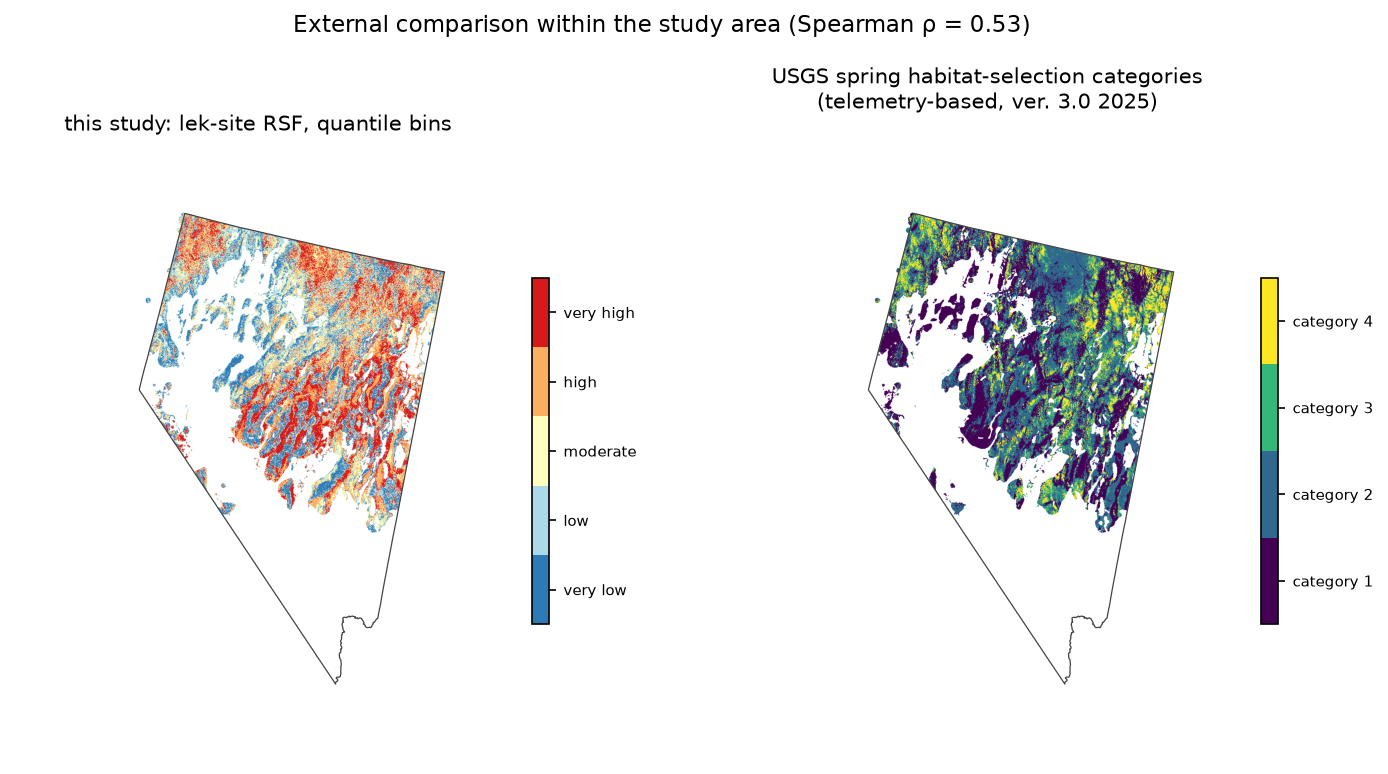
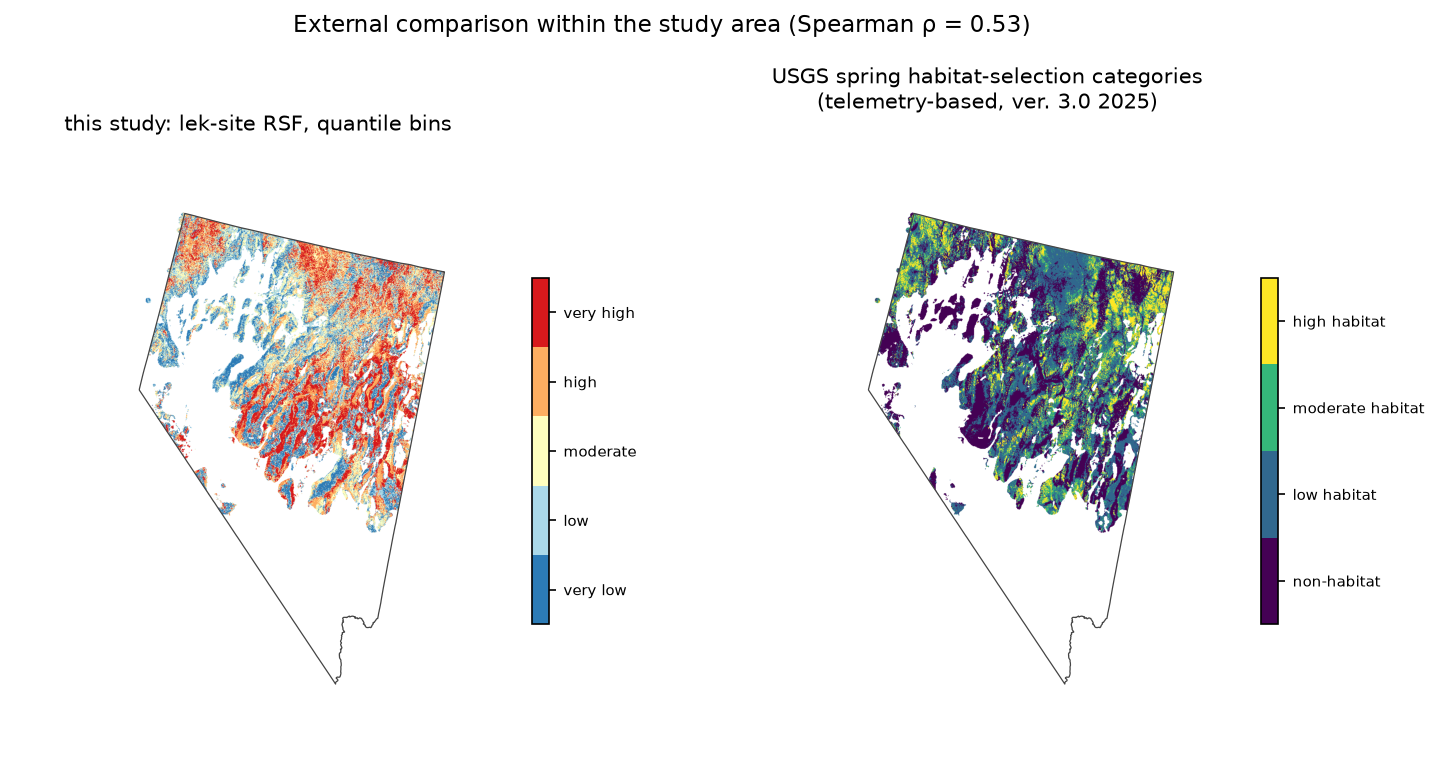
USGS categories: official FGDC class names (non-habitat/low/moderate/high HSI percentile classes) in contingency table, figure legend, and prose; 4-vs-5-class design difference explained in Methods and table footnote

diff --git a/pipeline/validate_usgs.py b/pipeline/validate_usgs.py
@@ -82,7 +82,11 @@ for i, c in enumerate(cats):
     for j in range(5):
         tab[i, j] = np.sum((theirs == c) & (our_bin == j))
 tab = tab / tab.sum(axis=1, keepdims=True)
-cdf = pd.DataFrame(tab, index=[f"USGS cat {c}" for c in cats],
+# official class names from the release's FGDC metadata (percentile classes
+# of the HSI: <5th, 5th-25th, 25th-50th, >50th)
+USGS_NAMES = {1: "non-habitat", 2: "low habitat", 3: "moderate habitat",
+              4: "high habitat"}
+cdf = pd.DataFrame(tab, index=[f"USGS {USGS_NAMES.get(c, f'cat {c}')}" for c in cats],
                    columns=[f"ours {l}" for l in labels5])
 (ROOT / "reports/v4/tables").mkdir(parents=True, exist_ok=True)
 
@@ -102,7 +106,12 @@ body = "".join(
 with open(ROOT / "reports/v4/tables/usgs_contingency.md", "w") as f:
     f.write('<table style="border-collapse:collapse;margin:0.5em 0">'
             f'<thead><tr><th></th>{head}</tr></thead>'
-            f'<tbody>{body}</tbody></table>\n')
+            f'<tbody>{body}</tbody></table>\n\n'
+            "USGS classes are percentile thresholds of their habitat-selection "
+            "index (non-habitat < 5th percentile; low 5th–25th; moderate "
+            "25th–50th; high > 50th) — four classes of deliberately unequal "
+            "area, unlike our five equal-area quantile bins, so the comparison "
+            "is ordinal rather than class-for-class.\n")
 msg = (f"USGS raster: {target['name']}\n"
        f"common valid points: {len(ours):,} of 150,000\n"
        f"Spearman(ours, USGS): {rho:.3f}\n")

diff --git a/pipeline/map_panels.py b/pipeline/map_panels.py
@@ -89,7 +89,10 @@ im1 = axes[1].imshow(theirs_idx, cmap=cat_cmap, vmin=-0.5, vmax=len(cats) - 0.5,
                      extent=(bnd.left, bnd.right, bnd.bottom, bnd.top))
 axes[1].set_title("USGS spring habitat-selection categories\n(telemetry-based, ver. 3.0 2025)", fontsize=10)
 cb1 = fig.colorbar(im1, ax=axes[1], shrink=0.5, ticks=range(len(cats)))
-cb1.ax.set_yticklabels([f"category {c}" for c in cats], fontsize=7)
+# official class names (FGDC metadata): percentile thresholds of the HSI
+USGS_NAMES = {1: "non-habitat", 2: "low habitat", 3: "moderate habitat",
+              4: "high habitat"}
+cb1.ax.set_yticklabels([USGS_NAMES.get(c, f"category {c}") for c in cats], fontsize=7)
 for ax in axes:
     nv.boundary.plot(ax=ax, color="#444", linewidth=0.6)
     ax.set_axis_off()

diff --git a/reports/v4/tables/usgs_contingency.md b/reports/v4/tables/usgs_contingency.md
@@ -1,1 +1,3 @@
-<table style="border-collapse:collapse;margin:0.5em 0"><thead><tr><th></th><th style="text-align:right;padding:4px 12px">ours very low</th><th style="text-align:right;padding:4px 12px">ours low</th><th style="text-align:right;padding:4px 12px">ours moderate</th><th style="text-align:right;padding:4px 12px">ours high</th><th style="text-align:right;padding:4px 12px">ours very high</th></tr></thead><tbody><tr><th style="text-align:left;padding:4px 12px;font-weight:normal">USGS cat 1</th><td style="text-align:right;padding:4px 12px;background-color:rgba(46,109,164,0.65)">46%</td><td style="text-align:right;padding:4px 12px;background-color:rgba(46,109,164,0.40)">29%</td><td style="text-align:right;padding:4px 12px;background-color:rgba(46,109,164,0.19)">14%</td><td style="text-align:right;padding:4px 12px;background-color:rgba(46,109,164,0.10)">7%</td><td style="text-align:right;padding:4px 12px;background-color:rgba(46,109,164,0.06)">4%</td></tr><tr><th style="text-align:left;padding:4px 12px;font-weight:normal">USGS cat 2</th><td style="text-align:right;padding:4px 12px;background-color:rgba(46,109,164,0.13)">9%</td><td style="text-align:right;padding:4px 12px;background-color:rgba(46,109,164,0.26)">18%</td><td style="text-align:right;padding:4px 12px;background-color:rgba(46,109,164,0.35)">25%</td><td style="text-align:right;padding:4px 12px;background-color:rgba(46,109,164,0.36)">26%</td><td style="text-align:right;padding:4px 12px;background-color:rgba(46,109,164,0.30)">22%</td></tr><tr><th style="text-align:left;padding:4px 12px;font-weight:normal">USGS cat 3</th><td style="text-align:right;padding:4px 12px;background-color:rgba(46,109,164,0.06)">4%</td><td style="text-align:right;padding:4px 12px;background-color:rgba(46,109,164,0.18)">13%</td><td style="text-align:right;padding:4px 12px;background-color:rgba(46,109,164,0.31)">22%</td><td style="text-align:right;padding:4px 12px;background-color:rgba(46,109,164,0.38)">27%</td><td style="text-align:right;padding:4px 12px;background-color:rgba(46,109,164,0.47)">33%</td></tr><tr><th style="text-align:left;padding:4px 12px;font-weight:normal">USGS cat 4</th><td style="text-align:right;padding:4px 12px;background-color:rgba(46,109,164,0.06)">5%</td><td style="text-align:right;padding:4px 12px;background-color:rgba(46,109,164,0.16)">11%</td><td style="text-align:right;padding:4px 12px;background-color:rgba(46,109,164,0.26)">18%</td><td style="text-align:right;padding:4px 12px;background-color:rgba(46,109,164,0.35)">25%</td><td style="text-align:right;padding:4px 12px;background-color:rgba(46,109,164,0.57)">41%</td></tr></tbody></table>
+<table style="border-collapse:collapse;margin:0.5em 0"><thead><tr><th></th><th style="text-align:right;padding:4px 12px">ours very low</th><th style="text-align:right;padding:4px 12px">ours low</th><th style="text-align:right;padding:4px 12px">ours moderate</th><th style="text-align:right;padding:4px 12px">ours high</th><th style="text-align:right;padding:4px 12px">ours very high</th></tr></thead><tbody><tr><th style="text-align:left;padding:4px 12px;font-weight:normal">USGS non-habitat</th><td style="text-align:right;padding:4px 12px;background-color:rgba(46,109,164,0.65)">46%</td><td style="text-align:right;padding:4px 12px;background-color:rgba(46,109,164,0.40)">29%</td><td style="text-align:right;padding:4px 12px;background-color:rgba(46,109,164,0.19)">14%</td><td style="text-align:right;padding:4px 12px;background-color:rgba(46,109,164,0.10)">7%</td><td style="text-align:right;padding:4px 12px;background-color:rgba(46,109,164,0.06)">4%</td></tr><tr><th style="text-align:left;padding:4px 12px;font-weight:normal">USGS low habitat</th><td style="text-align:right;padding:4px 12px;background-color:rgba(46,109,164,0.13)">9%</td><td style="text-align:right;padding:4px 12px;background-color:rgba(46,109,164,0.26)">18%</td><td style="text-align:right;padding:4px 12px;background-color:rgba(46,109,164,0.35)">25%</td><td style="text-align:right;padding:4px 12px;background-color:rgba(46,109,164,0.36)">26%</td><td style="text-align:right;padding:4px 12px;background-color:rgba(46,109,164,0.30)">22%</td></tr><tr><th style="text-align:left;padding:4px 12px;font-weight:normal">USGS moderate habitat</th><td style="text-align:right;padding:4px 12px;background-color:rgba(46,109,164,0.06)">4%</td><td style="text-align:right;padding:4px 12px;background-color:rgba(46,109,164,0.18)">13%</td><td style="text-align:right;padding:4px 12px;background-color:rgba(46,109,164,0.31)">22%</td><td style="text-align:right;padding:4px 12px;background-color:rgba(46,109,164,0.38)">27%</td><td style="text-align:right;padding:4px 12px;background-color:rgba(46,109,164,0.47)">33%</td></tr><tr><th style="text-align:left;padding:4px 12px;font-weight:normal">USGS high habitat</th><td style="text-align:right;padding:4px 12px;background-color:rgba(46,109,164,0.06)">5%</td><td style="text-align:right;padding:4px 12px;background-color:rgba(46,109,164,0.16)">11%</td><td style="text-align:right;padding:4px 12px;background-color:rgba(46,109,164,0.26)">18%</td><td style="text-align:right;padding:4px 12px;background-color:rgba(46,109,164,0.35)">25%</td><td style="text-align:right;padding:4px 12px;background-color:rgba(46,109,164,0.57)">41%</td></tr></tbody></table>
+
+USGS classes are percentile thresholds of their habitat-selection index (non-habitat < 5th percentile; low 5th–25th; moderate 25th–50th; high > 50th) — four classes of deliberately unequal area, unlike our five equal-area quantile bins, so the comparison is ordinal rather than class-for-class.
